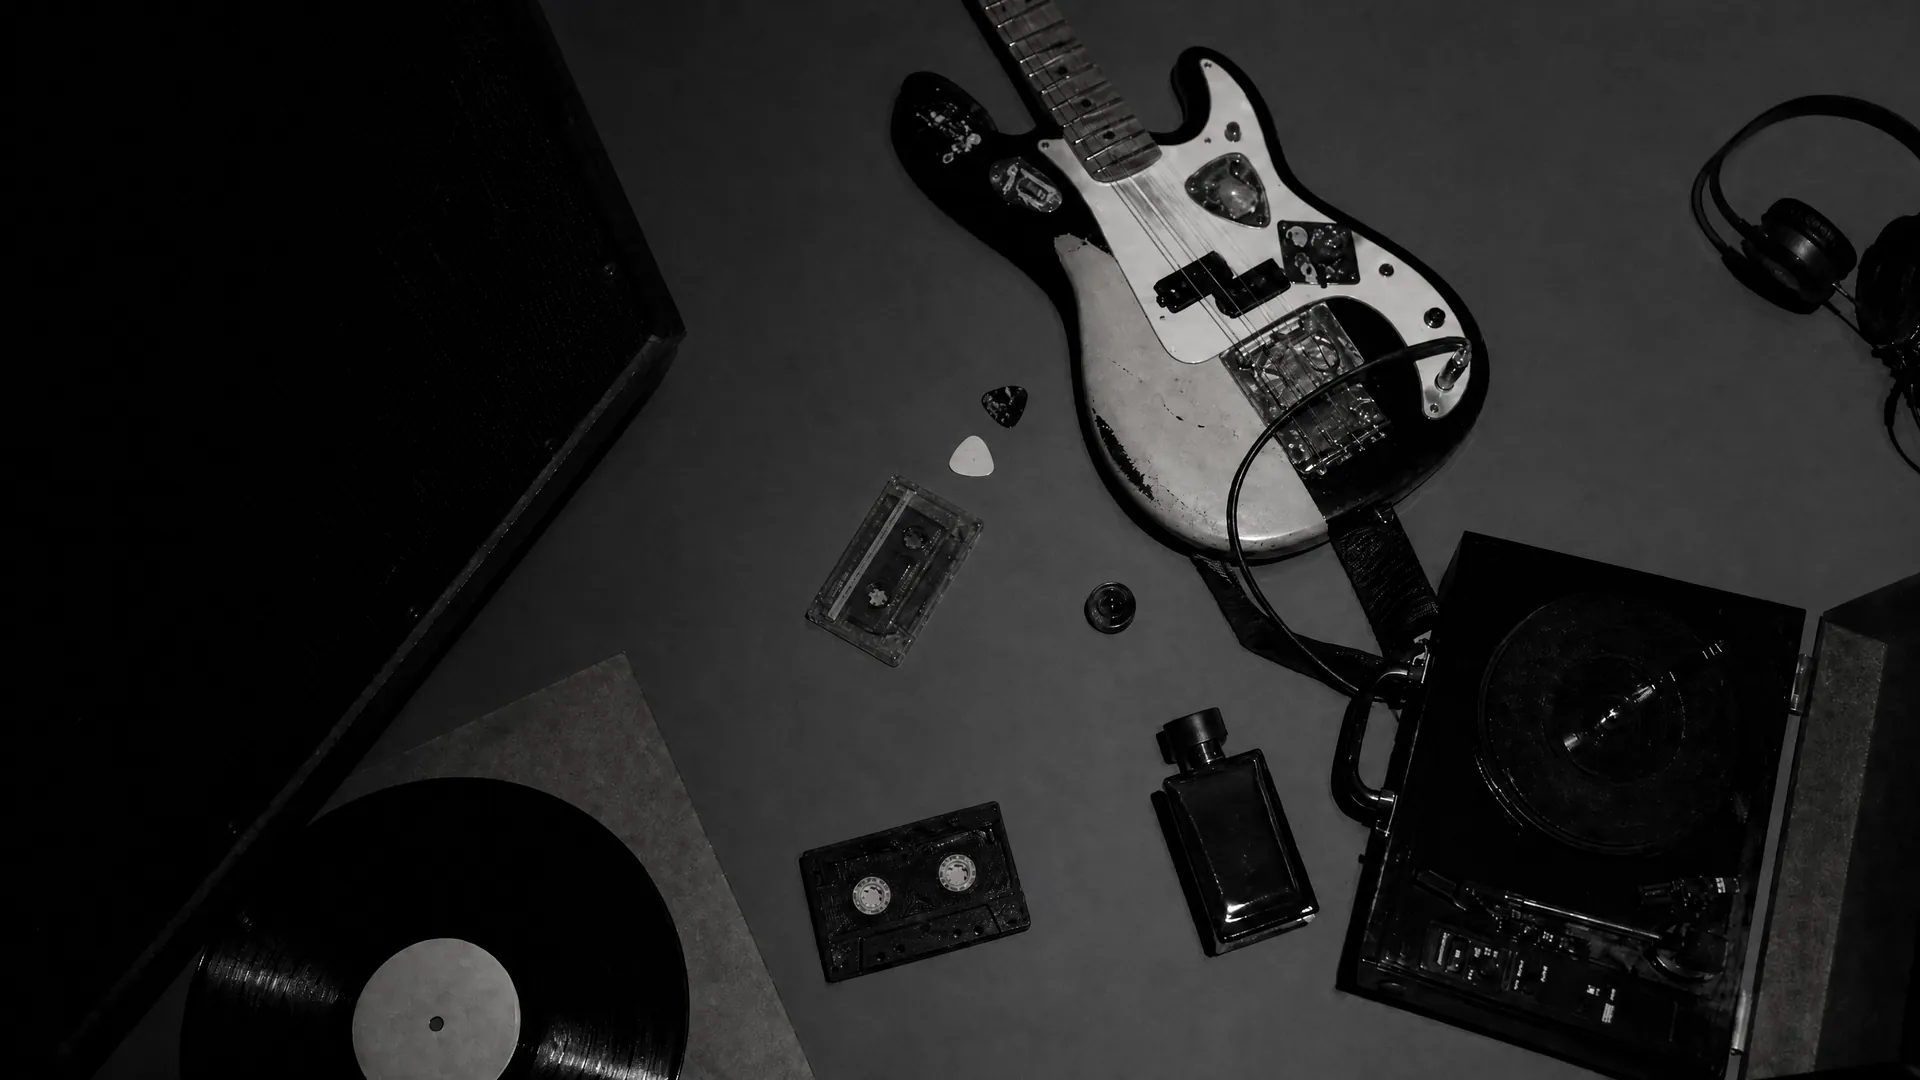
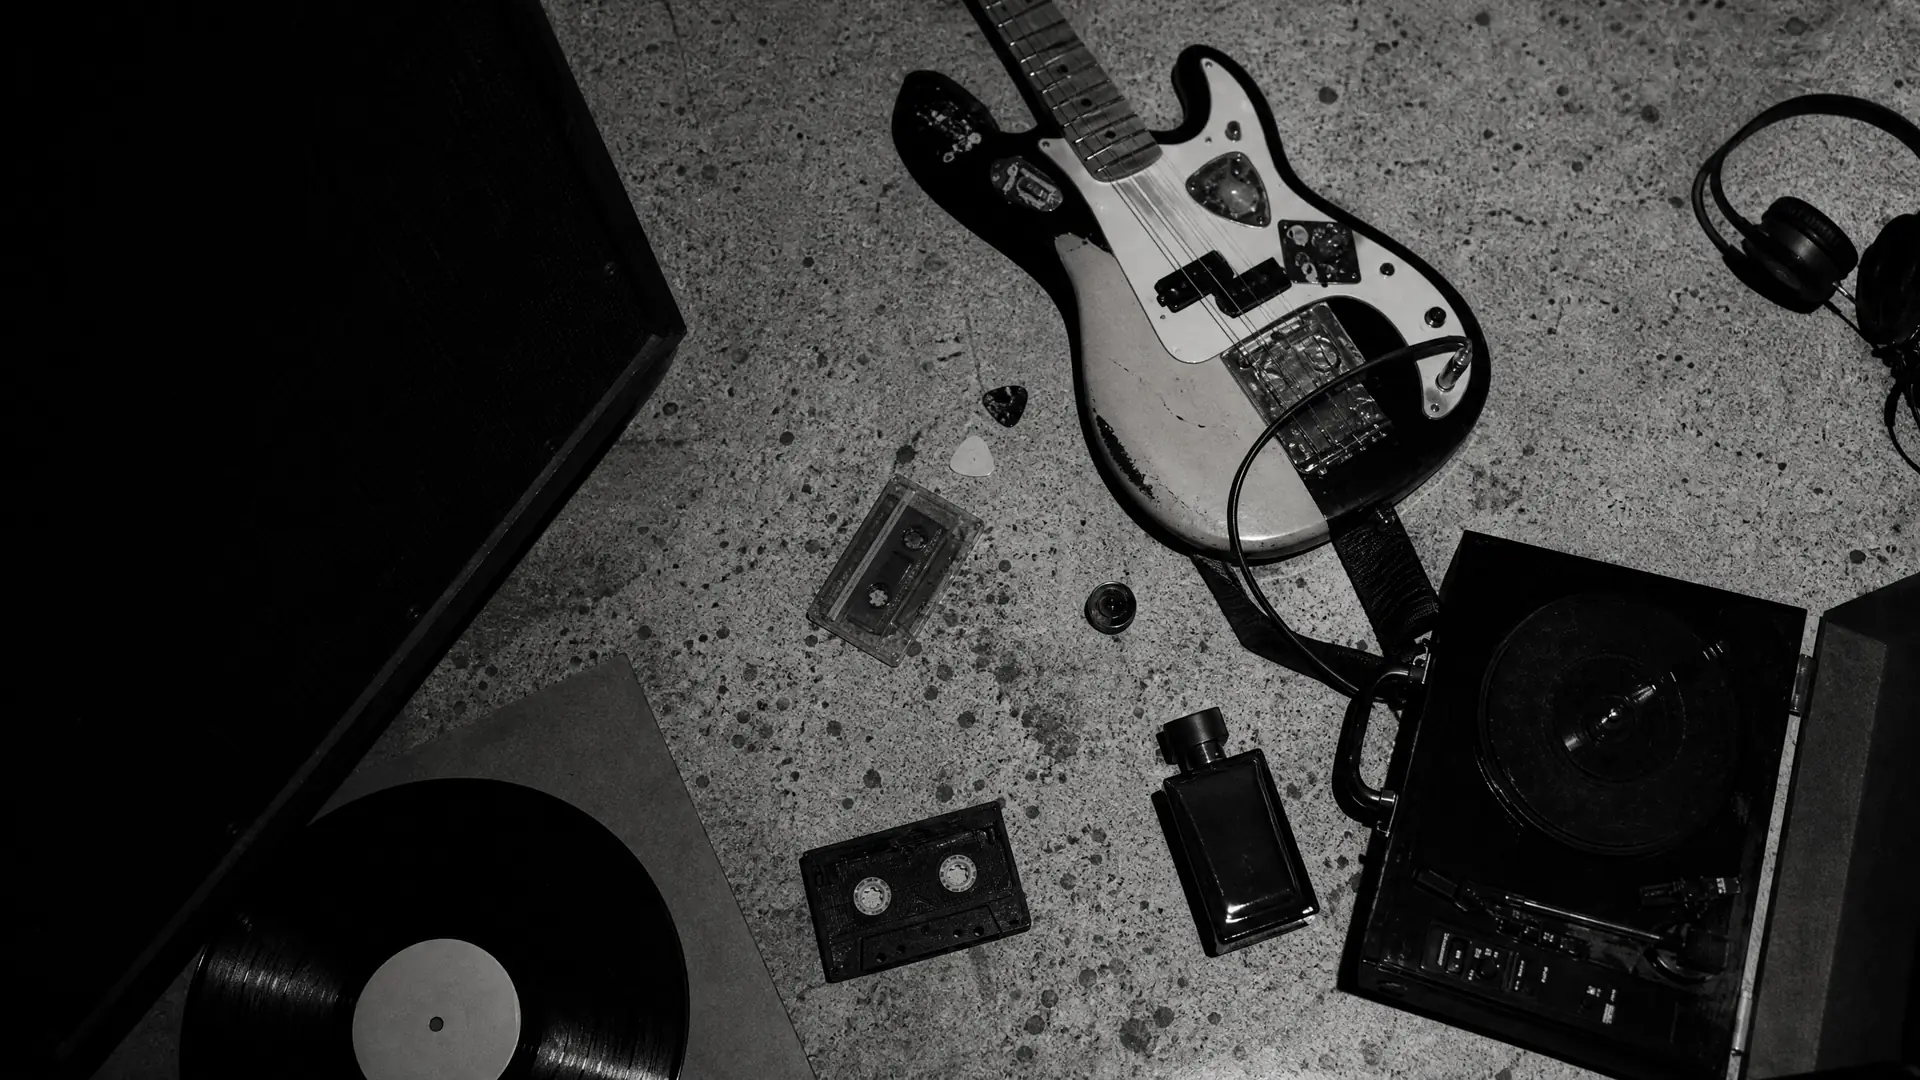
데스크탑 히어로 사진 교체(흑백 플랫레이) + 미사용 톤암 이미지/코드 제거

diff --git a/index.html b/index.html
@@ -275,7 +275,6 @@
   }
   .hero-scroll .bar{ width:2px; height:40px; border-radius:2px; background:linear-gradient(rgba(7,7,7,0.75),transparent); animation:scrolldrift 2.2s cubic-bezier(.4,0,.2,1) infinite; transform-origin:top; }
 
-  .hero-tonearm{ position:absolute; right:-9.5%; top:8%; width:53.2%; max-width:817px; height:auto; opacity:1; pointer-events:none; filter:drop-shadow(0 30px 40px rgba(0,0,0,0.18)) drop-shadow(0 8px 12px rgba(0,0,0,0.12)); }
   @keyframes scrolldrift{
     0%   { transform:translateY(-6px) scaleY(0.85); opacity:0.25; }
     45%  { transform:translateY(0)    scaleY(1);    opacity:1; }
@@ -283,7 +282,6 @@
   }
 
   @media (max-width:760px){
-    .hero-tonearm{ display:none; }
     /* 모바일: 들여쓰기 제거하고 왼쪽 정렬로 깔끔하게 */
     .hero-title .line.push-1{ margin-left:0; }
     .hero-title .line.push-2{ margin-left:0; }
@@ -531,7 +529,6 @@
   .footer-legal p{ font-size:0.68rem; line-height:1.7; color:rgba(255,255,255,0.32); margin:0 0 4px; }
   .footer-bottom{ margin-top:30px; display:flex; justify-content:space-between; flex-wrap:wrap; gap:10px; font-size:0.72rem; color:rgba(255,255,255,0.35); }
   /* ===================== RESPONSIVE ===================== */
-  /* NOTE: .hero-tonearm 데스크탑 배치(right/top/width)는 의도적으로 건드리지 않음 */
 
   /* --- 태블릿 / 좁은 데스크탑 --- */
   @media (max-width:1024px){
@@ -667,7 +664,7 @@
                  linear-gradient(0deg, rgba(7,7,7,0.55) 0%, transparent 22%);
     }
     .hero-inner{ position:relative; z-index:1; }
-    .hero-spotlight, .hero-tonearm, .hero-top{ display:none; }
+    .hero-spotlight, .hero-top{ display:none; }
     .hero-title{ color:#fff; }
     .hero-title .line.push-1, .hero-title .line.push-2, .hero-title .line.push-3{ margin-left:0; }
     .hero-title-desktop .line{ transform:none; opacity:1; transition:none; }
@@ -756,11 +753,6 @@
     <div class="hero-bottom reveal in d3">
       <div class="hero-scroll"><span>Scroll</span><span class="bar"></span></div>
     </div>
-
-    <picture>
-      <source srcset="assets/tonearm.webp" type="image/webp">
-      <img class="hero-tonearm reveal in d3" src="assets/tonearm.png" width="1720" height="1216" alt="턴테이블 톤암" />
-    </picture>
 
   </div>
 </header>
